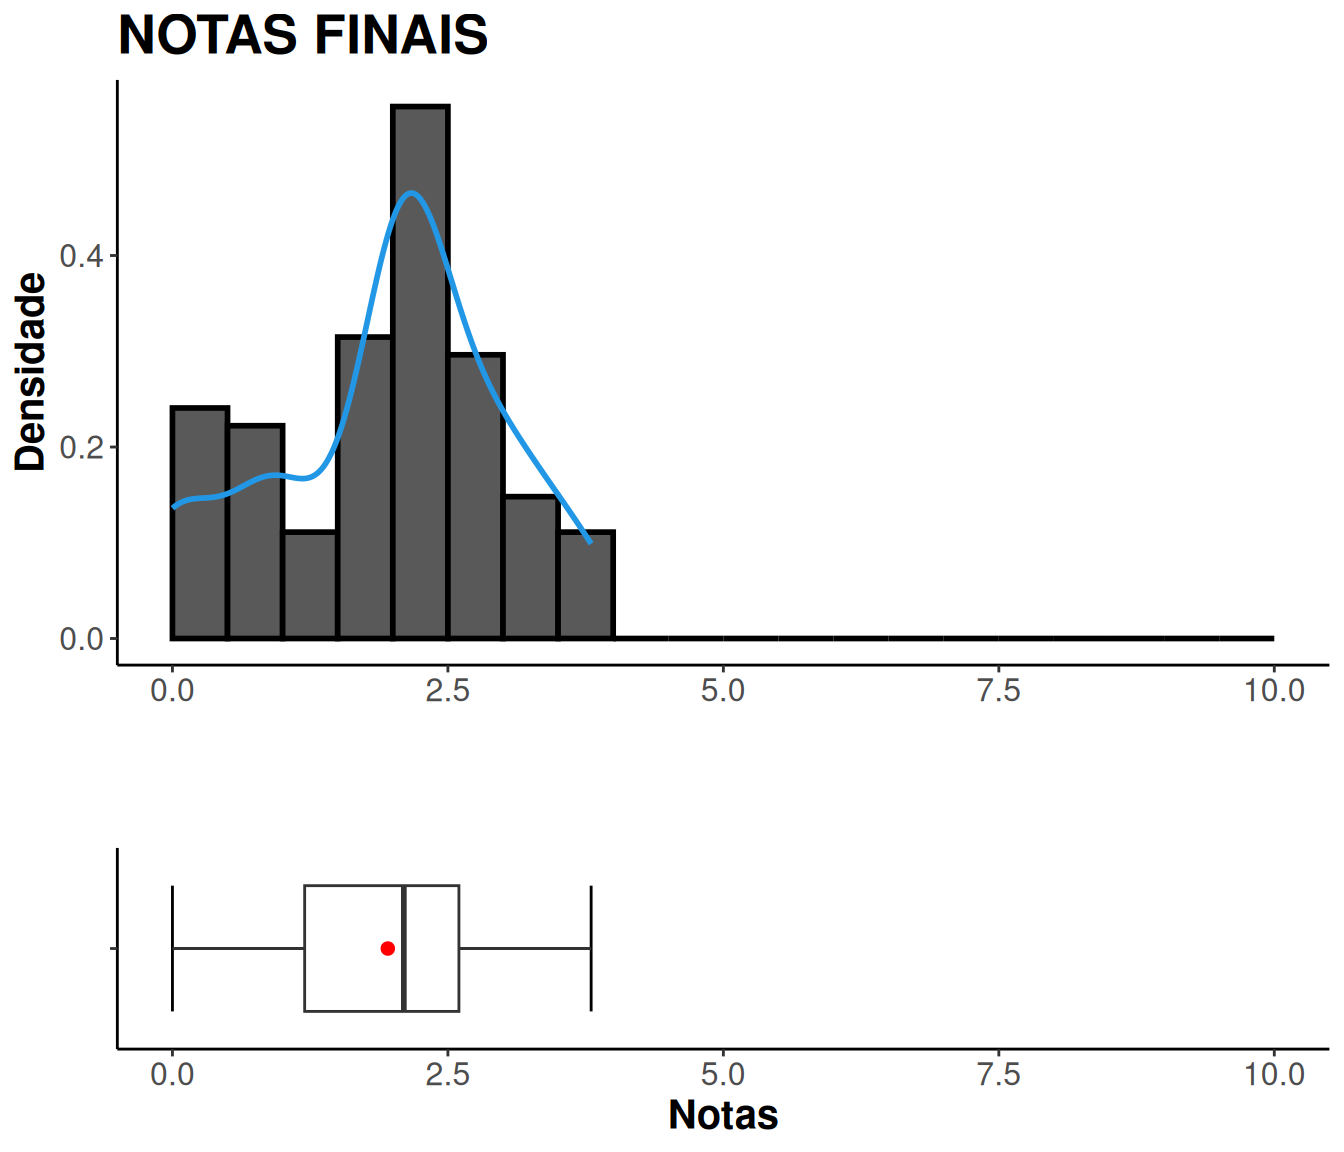
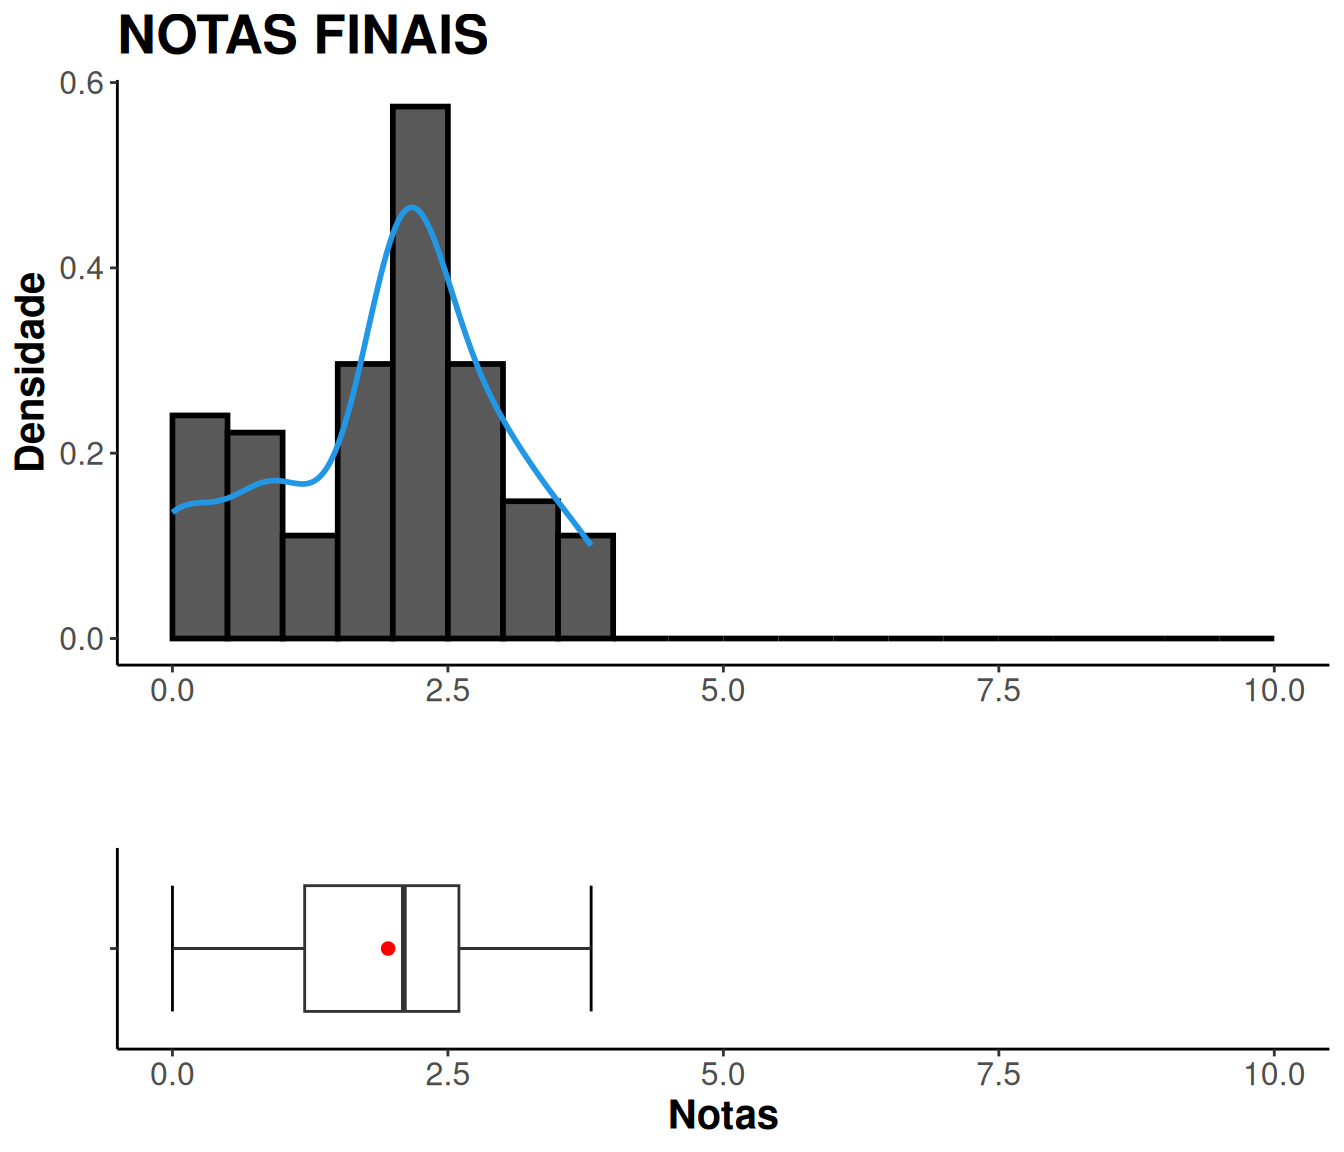
Atualizando arquivos de notas

diff --git a/notas.html b/notas.html
@@ -344,7 +344,7 @@ $(document).ready(function () {
       </a>
     </li>
     <li>
-      <a href="tabelas/tabela-z2.pdf">
+      <a href="tabelas/Tabela_da_Distribuicao_Normal.pdf">
         <span class="fa fa-arrow-right"></span>
          
         Tabela z (completa)
@@ -478,7 +478,7 @@ Prof. Dr. Paulo Justiniano Ribeiro Junior</div></h3>
 <tr class="odd">
 <td align="left">GRR20263843</td>
 <td align="right">8.6</td>
-<td align="right">7.3</td>
+<td align="right">8.1</td>
 <td align="right">0</td>
 </tr>
 <tr class="even">
@@ -532,7 +532,7 @@ Prof. Dr. Paulo Justiniano Ribeiro Junior</div></h3>
 <tr class="even">
 <td align="left">GRR20262598</td>
 <td align="right">9.3</td>
-<td align="right">4.9</td>
+<td align="right">5.9</td>
 <td align="right">0</td>
 </tr>
 <tr class="odd">
@@ -1162,14 +1162,14 @@ class="section level1 tabset tabset-fade tabset-pills">
 <div id="prova-2" class="section level2">
 <h2>PROVA 2</h2>
 <center>
-<table style="width:75%;">
+<table style="width:78%;">
 <colgroup>
 <col width="6%" />
 <col width="12%" />
 <col width="9%" />
 <col width="11%" />
 <col width="13%" />
-<col width="8%" />
+<col width="11%" />
 <col width="12%" />
 </colgroup>
 <thead>
@@ -1188,9 +1188,9 @@ class="section level1 tabset tabset-fade tabset-pills">
 <td align="center">92</td>
 <td align="center">0.4</td>
 <td align="center">2.75</td>
-<td align="center">5.263</td>
-<td align="center">5.3</td>
-<td align="center">7.8</td>
+<td align="center">5.283</td>
+<td align="center">5.4</td>
+<td align="center">7.825</td>
 <td align="center">9.6</td>
 </tr>
 </tbody>
@@ -1211,8 +1211,8 @@ class="section level1 tabset tabset-fade tabset-pills">
 <tbody>
 <tr class="odd">
 <td align="center">9.2</td>
-<td align="center">7.822</td>
-<td align="center">2.797</td>
+<td align="center">7.868</td>
+<td align="center">2.805</td>
 </tr>
 </tbody>
 </table>
@@ -1623,7 +1623,7 @@ class="section level1 tabset tabset-fade tabset-pills">
 <td align="center">108</td>
 <td align="center">0</td>
 <td align="center">1.2</td>
-<td align="center">1.955</td>
+<td align="center">1.957</td>
 <td align="center">2.1</td>
 <td align="center">2.6</td>
 <td align="center">3.8</td>
@@ -1646,8 +1646,8 @@ class="section level1 tabset tabset-fade tabset-pills">
 <tbody>
 <tr class="odd">
 <td align="center">3.8</td>
-<td align="center">1.075</td>
-<td align="center">1.037</td>
+<td align="center">1.082</td>
+<td align="center">1.04</td>
 </tr>
 </tbody>
 </table>
